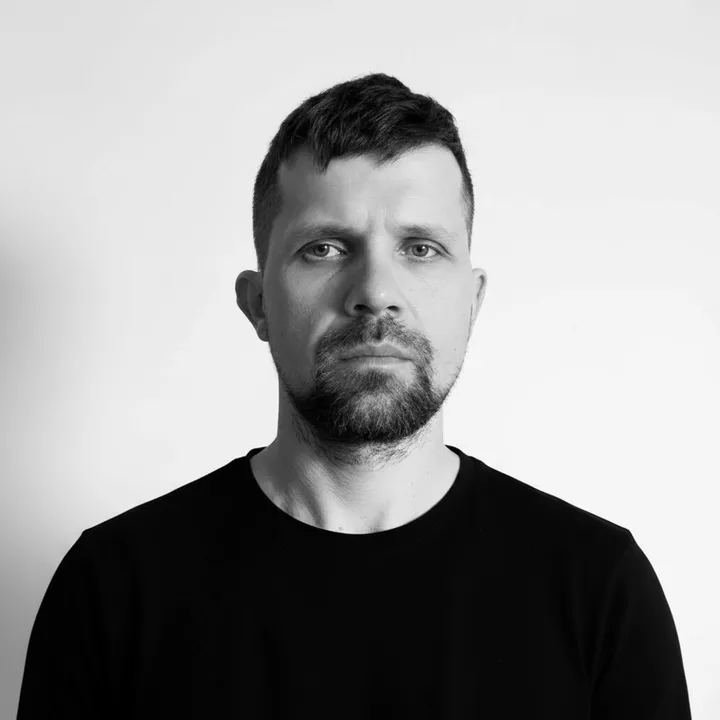
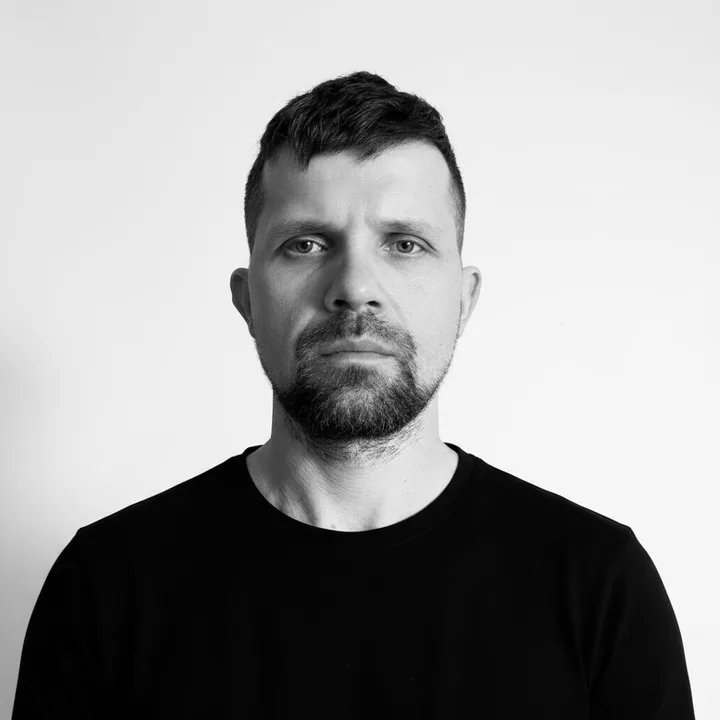
fix: portrait turn sweeps through front instead of stalling near it
Old frames 3 and 4 were both near-front and near-identical. Now:
3 = front, 4 = mirrored frame 2 (three-quarter turned the other way),
so the sequence rotates R-profile -> three-quarter -> front -> L-three-
quarter, a continuous head turn with no dead frame. Static fallback
img points at turn-3 (front) so no-JS / reduced-motion faces camera.

Claude-Session: https://claude.ai/code/session_01ELnyWQRrMQowr2FKH5rFjW

diff --git a/index.html b/index.html
@@ -531,7 +531,7 @@
       <figure class="about-fig reveal">
         <div class="turn">
           <div class="turn-frames">
-            <img class="turn-live" src="assets/img/turn-4.webp" alt="Portrait of Dmytro Bilukha." width="640" height="640" loading="eager" decoding="async">
+            <img class="turn-live" src="assets/img/turn-3.webp" alt="Portrait of Dmytro Bilukha." width="640" height="640" loading="eager" decoding="async">
           </div>
         </div>
         <figcaption class="mono">Master of Sports, Greco-Roman &middot; 5x regional champion</figcaption>
